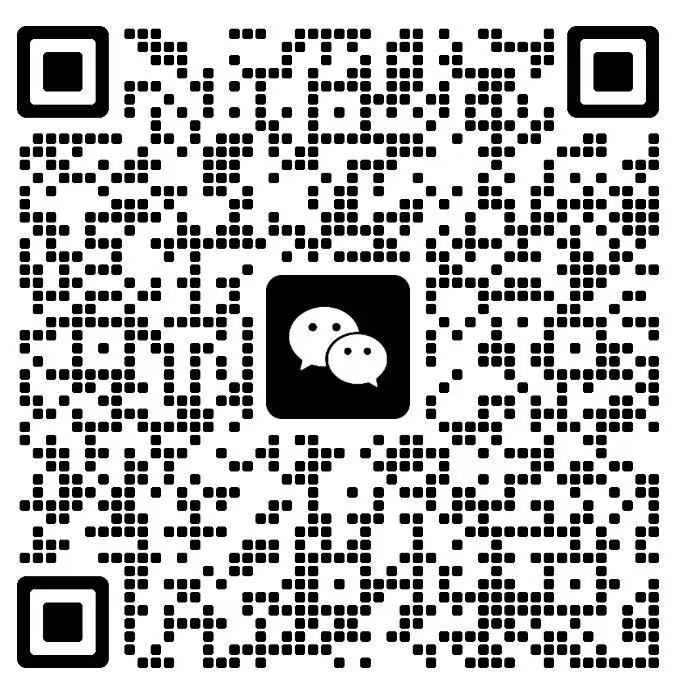
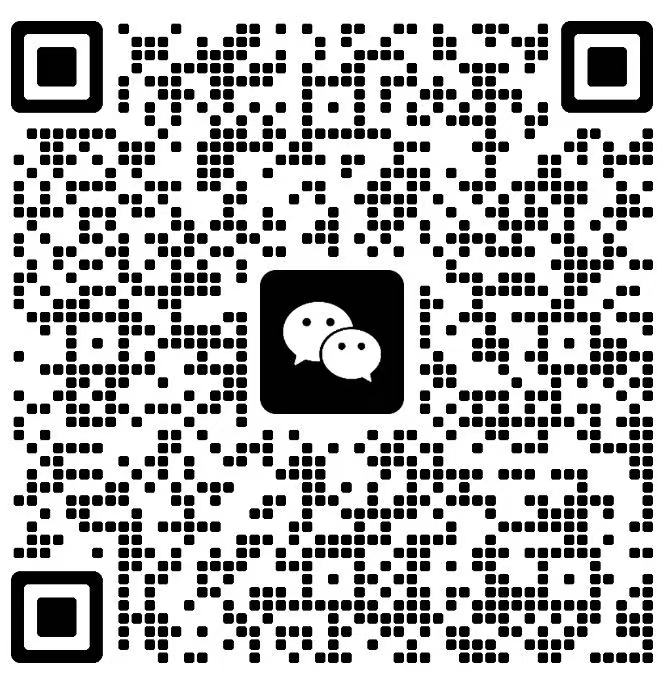
[Docs] Readme updates
# message auto-generated for no-merge-commit merge:
!1885 merge 2.3.0 into 2.3.0

[Docs] Readme updates

Created-by: js1234567
Commit-by: js1234567
Merged-by: ascend-robot
Description: ## Motivation

Readme updates

## Modification

QR code updates
Raodmap updates

## Self-test (Optional)

If modifications to this PR may cause/fix function/accuracy/performance DTSs/issues, a self-inspection record needs to be attached.

## BC-breaking (Optional)

If there are compatibility issues, such as dependencies on cann/torch_npu versions, they need to be explained in the PR.

## Checklist

**Before PR**:

- [x] The new code needs to comply with the Clean Code specification.
- [x] The PR content is self-checked, and the expression can be clear and the writing standardized

**After PR**:

- [ ] CLA has been signed and all committers have signed the CLA in this PR.
- [ ] The ci-pipeline is passed, Code Check	is passed.

See merge request: Ascend/MindSpeed-MM!1885

diff --git a/README.md b/README.md
@@ -19,6 +19,12 @@
 
 MindSpeed MM：面向大规模分布式训练的昇腾多模态大模型套件，支持业界主流多模态大模型训练，旨在为华为 [昇腾芯片](https://www.hiAscend.com/) 提供端到端的多模态训练解决方案, 包含预置业界主流模型，数据工程，分布式训练及加速，预训练、微调、后训练、在线推理任务等特性。
 
+# 未来规划
+
+---
+
+📈未来规划会动态刷新在[MindSpeed MM RoadMap](https://gitcode.com/Ascend/MindSpeed-MM/issues/176)中，欢迎社区通过此链接进行互动并提出诉求
+
 # 加入我们
 
 ---
